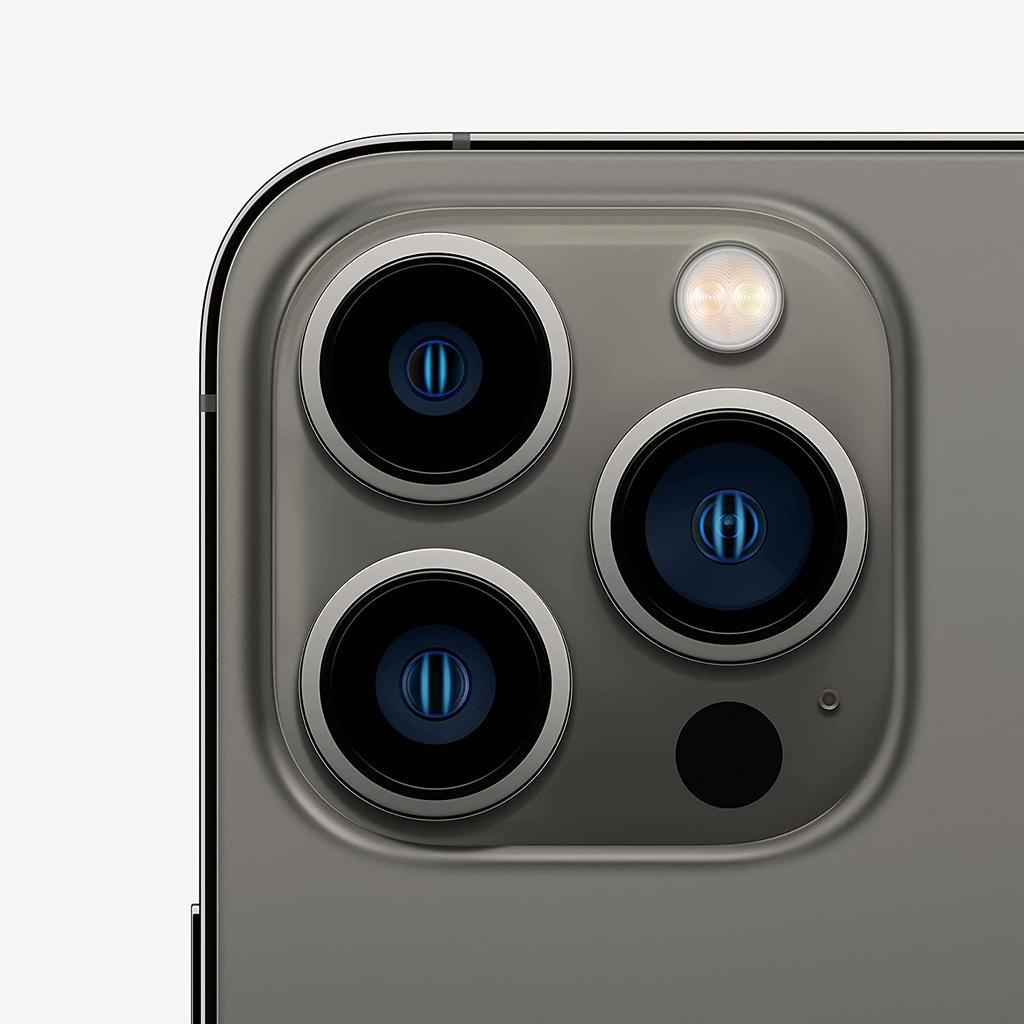
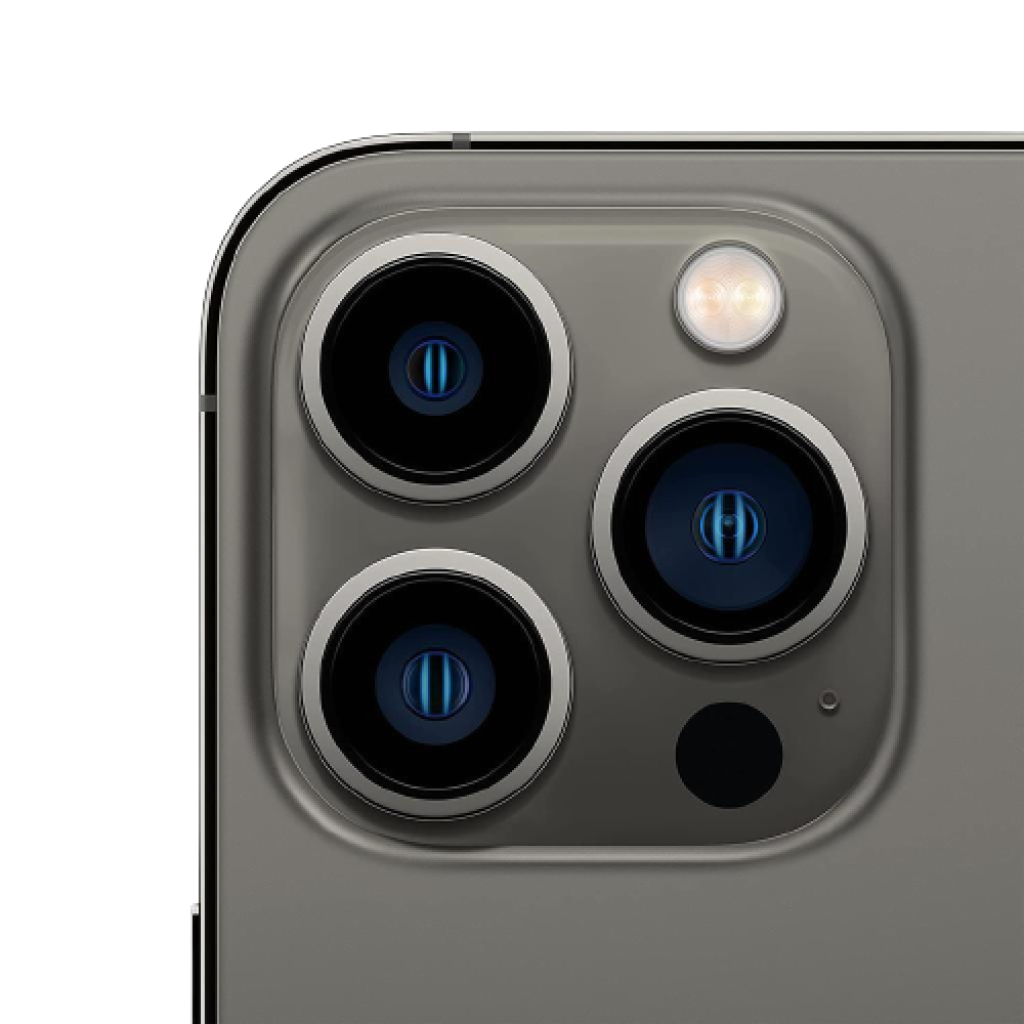
update images

diff --git a/lib/data.js b/lib/data.js
@@ -3,7 +3,7 @@ export const categories = [
     id: 0,
     name: "Smartphones",
     slug: "smartphones",
-    image: "/images/iphone-13-pro-max-blue.png",
+    image: "/images/iphone-13-pro-max-graphit.png",
   },
   {
     id: 1,
